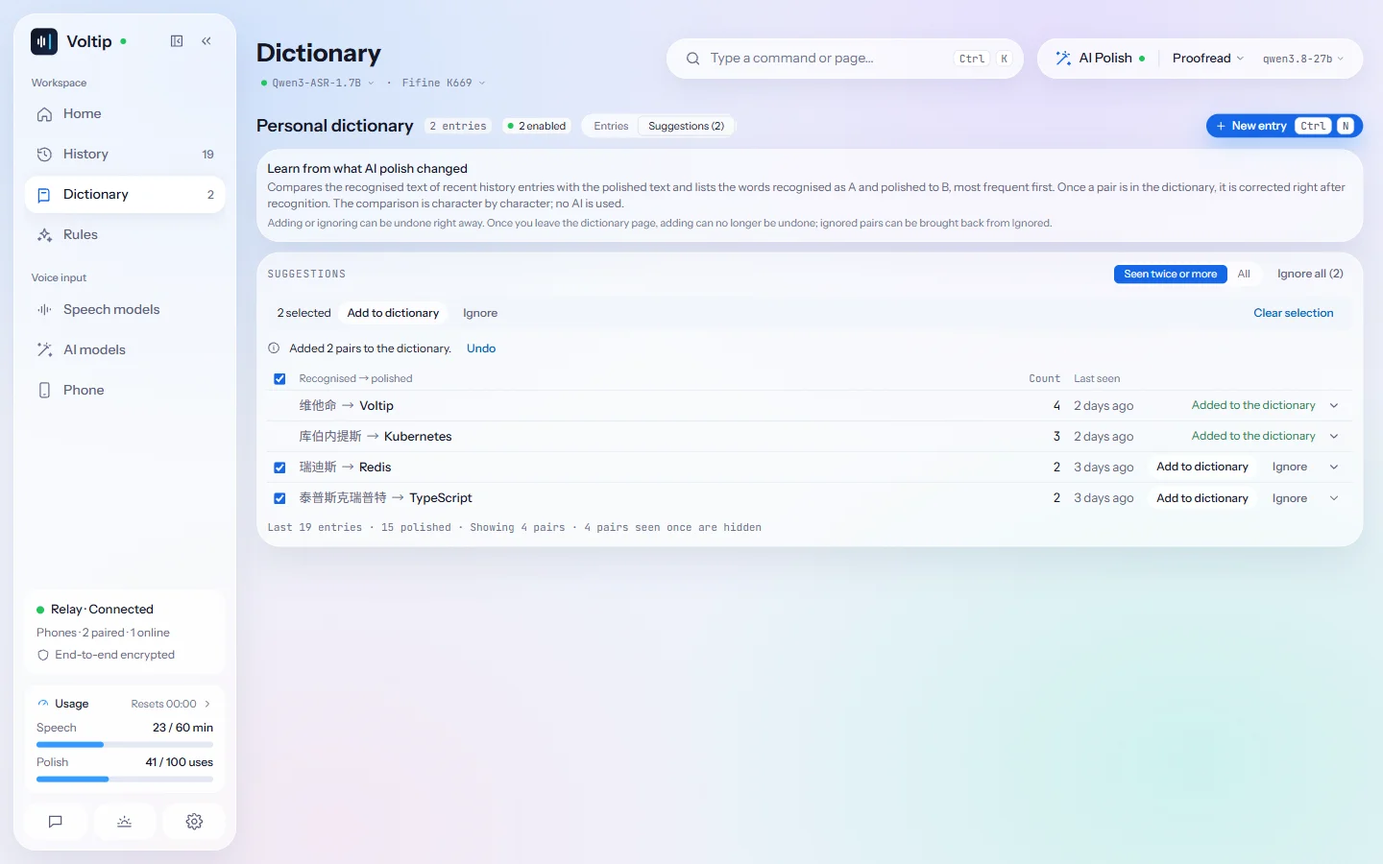
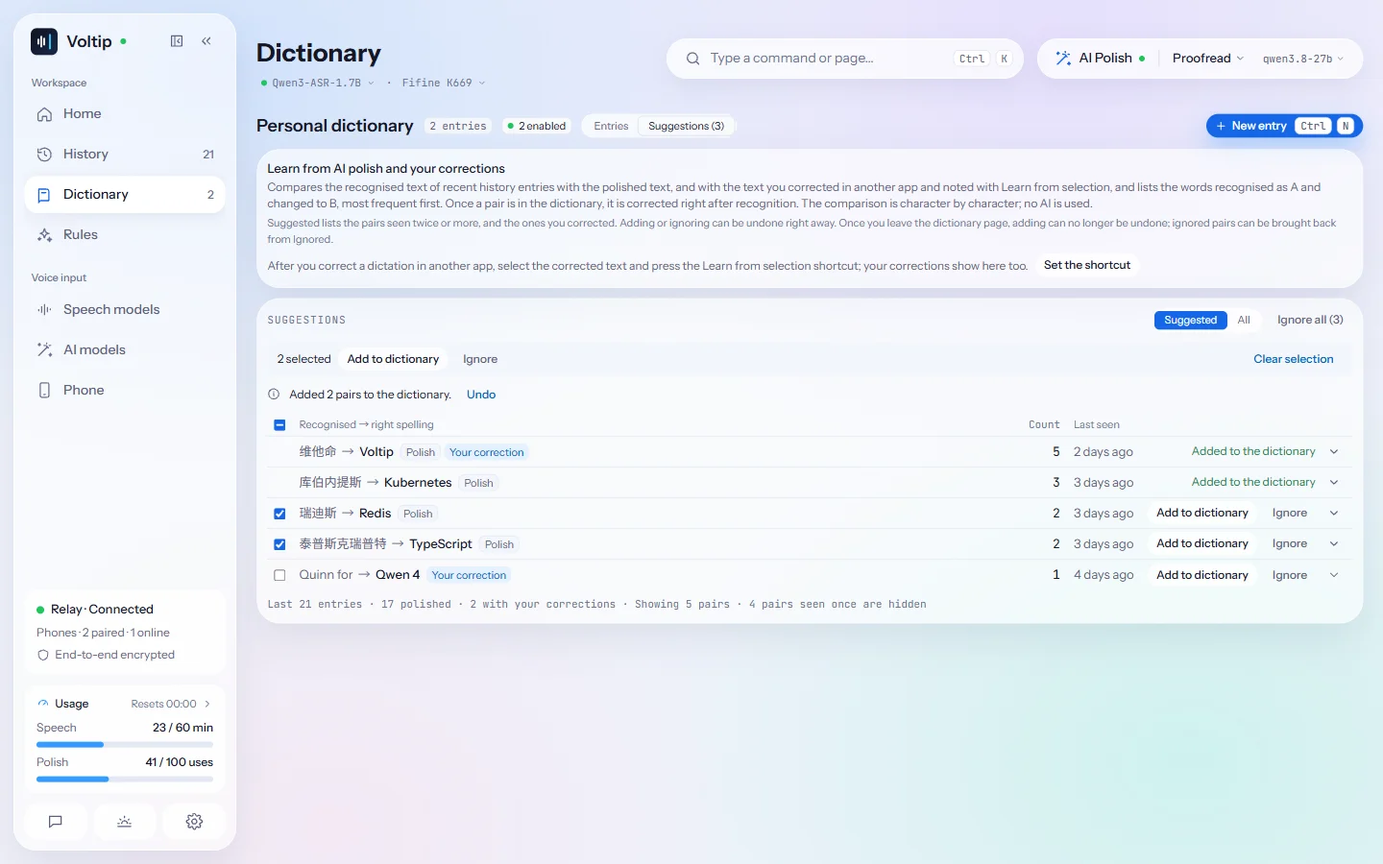
docs(voltip): sync from voltip@3421669
Source: https://github.com/sunerpy/voltip/commit/34216697370b7564388e05a56d63f541248f185d

diff --git a/voltip/src/zh/dev/threat-model.md b/voltip/src/zh/dev/threat-model.md
@@ -20,6 +20,7 @@
 | 本机语音服务被其他用户、网页或局域网滥用（`docs/dictation.md` §23） | 默认只监听回环地址，`voltip-server` 监听其他地址必须加 `--allow-remote`（并警告明文），App 只监听 127.0.0.1；除 `/healthz` 外每个请求都要 32 字节随机令牌（0600 文件，常量时间比较，可随时更换），没有关闭认证的选项；不返回 CORS 头，网页读不到响应；并发与排队有上限，时长、请求体和字段有界限，原始上传不落盘；日志不记文字、音频和令牌；无头服务端只读钥匙串与 App 的文件；没有钥匙串时可以从 `VOLTIP_KEY_*` 环境变量读取密钥（只在 voltip-server，文档建议 0600 的 EnvironmentFile；同一用户的进程能读到服务的环境变量，这一点写在文档里），`--check` 和日志只给变量名 | `the_token_guards_everything_but_the_health_check`、`malformed_and_oversized_requests_are_refused`、`a_waiting_request_reads_nothing_until_it_has_a_permit_and_a_full_queue_is_refused`（`voltip-serve`）；`the_command_line_names_the_service_and_its_one_shot_actions`、`print_token_creates_the_token_once_and_prints_it_again`（`voltip-server`）；`peek` 的零写入测试（`voltip-identity`）；`keys_from_the_environment_win_over_the_keychain_and_are_named_never_printed`（`voltip-server`） |
 | 代理看到或改动 Voltip 的流量（`docs/dictation.md` §24） | 代理只转发：`https://` 的请求（内置服务、服务商的默认地址、更新源、反馈服务）仍是端到端的 TLS（证书照常校验），中继里的内容还有 Noise E2EE，代理能看到的是要连接的主机和流量的大小与时间。用户自填的 `http://` 自定义端点（远程地址也允许）经过代理时是明文，代理能读到并改动录音、文字和密钥，与没有代理时网络路径上的风险相同；隐私页提醒改用 `https://` 或把它列入不使用代理的地址；本机地址（本地模型服务、本机语音服务）从不发给代理；手动代理的密码只在钥匙串，`settings.json`、界面、状态、日志里都没有；日志与错误不记代理的地址和用户名密码；`socks5h` 让代理解析域名，`socks5` 在本机解析 | `a_stream_tunnels_through_an_http_proxy_with_its_credentials`、`a_local_stream_goes_direct_and_a_refused_tunnel_names_no_host`、`a_client_follows_the_plan_from_one_request_to_the_next`（`voltip-net`）；`the_relay_connects_through_the_saved_proxy_with_the_keychain_password`（`voltip-core`）；`no proxy applies at once; a manual proxy is checked, saved tidy, its password kept out of view`（桌面） |
 | AI 工具接入（本机 MCP 服务，`docs/dictation.md` §25）被其他程序、网页或历史里的提示注入滥用 | 默认关闭，只监听 127.0.0.1，没有监听其他地址的选项；除 `/healthz` 外每个请求都要 32 字节随机令牌（0600 文件，与本机语音服务的令牌分开，常量时间比较，可随时更换，换后立即生效）；`Host` 只认 `127.0.0.1:{port}` / `localhost:{port}`（防 DNS rebinding），带 `Origin` 的请求一律拒绝，不返回 CORS 头，网页读不到响应；读取分三级（仅词典和规则 / 替换汇总（缺省）/ 完整历史），完整历史要用户在确认框里显式允许并限定时间范围，权限在每次调用时检查、收回立即生效；修改缺省只能写词典，外部工具新建的规则在用户启用前不执行（历史文本是不可信数据，可能带提示注入，规则会改写插入到任何应用里的文字），没有删除工具，每次写入都记在活动记录里并可撤销；最多 16 个会话、每会话每秒 10 次调用、单次结果 256 KiB；日志不记请求和结果里的文字；令牌与接入命令由核心放进剪贴板，不经过 webview | `crates/voltip-mcp/tests/http.rs@requests_without_the_token_or_from_a_web_page_are_refused`、`crates/voltip-mcp/tests/http.rs@the_levels_of_the_moment_decide_each_call`、`crates/voltip-mcp/tests/http.rs@a_clients_rule_waits_and_its_writes_can_be_undone`、`crates/voltip-mcp/tests/http.rs@sessions_and_calls_are_limited`、`crates/voltip-mcp/tests/http.rs@a_new_token_and_switching_off_take_effect_at_once`、`crates/voltip-mcp/tests/http.rs@the_logs_hold_no_text`；`crates/voltip-core/tests/mcp.rs@reads_follow_the_read_level_of_the_moment`、`crates/voltip-core/tests/mcp.rs@a_tools_rule_waits_for_approval_and_runs_once_approved` |
+| 从选中文字学习（`docs/dictation.md` §35）读到不该读的文字，或把它留在别处 | 只在用户按下快捷键（或运行 `--learn-selection`）时读一次：前台是终端时不按任何键；选区经剪贴板读取，做法与语音编辑相同（§19.2：先保存剪贴板全部内容，读完放回，期间用户另复制的内容不覆盖）；超过 8000 字不处理；只与最新 50 条听写比较，只存与某次听写对应的那一段改后的文字（历史记录关闭时什么也不存），存在本机历史里，删除记录、清空历史时一起删除，用户可以在历史详情里移除；不调用 AI、不发给任何服务；日志只记结果种类、条数和字数 | `crates/voltip-core/tests/learn.rs@the_notice_says_why_nothing_was_learned`（历史记录关闭、终端里都不按键）、`crates/voltip-core/tests/learn.rs@a_selection_corrects_the_take_and_the_notice_offers_its_pair`、`crates/voltip-inject/tests/real_display.rs@real_copy_chord_reads_the_selection_of_an_x11_text_widget`（剪贴板放回）、`crates/voltip-core/src/history/tests.rs@a_correction_is_stored_beside_the_entry_searched_and_read_with_the_recent_texts` |
 | 内置服务的每日额度被绕过，或用量把用户关联起来（`docs/dictation.md` §27） | 设备号是首次使用时生成的随机 UUID（`usage-id`），与配对密钥无关，不进备份、不同步，只发给内置服务；内置服务仍要应用令牌，按 IP 的限流照旧；额度是没有账号时的公平使用额度，不是安全边界（重装或伪造请求头能拿到新的额度，旧版本按 IP 计数）；额度用完只影响内置服务，其他服务商和本机模型照常可用；网关的统计只给每台设备 / 每个 IP 一个数，不含设备号和 IP；用量记录不含录音和文字 | `crates/voltip-cloud/src/lib.rs@only_the_built_in_service_is_told_who_asks`、`crates/voltip-core/src/usage/mod.rs@the_device_id_is_made_once_and_read_without_writing`、`apps/server/tests/cli.rs@the_server_meters_as_the_apps_device_or_as_itself_and_never_writes_the_apps_directory` |
 | 中继的统计泄露谁在和谁连接（`docs/pairing.md`「中继统计」） | `GET /stats` 只在中继的回环监听地址上，反向代理只转发 `/ws`；只有按小时的计数，不含 IP、频道、会话号和验证码；版本只按已发布版本的名单分桶，其余记为 `other`，每小时的桶数有上限 | `crates/voltip-relay/src/core.rs@the_statistics_count_what_happened_and_name_no_device`、`crates/voltip-relay/src/stats.rs@regression_versions_are_named_only_from_the_policy_or_up_to_the_hours_slots` |
 | 管理台被冒用：调高最低版本把所有客户端挡在外面，或改动额度（`docs/runbook.md`「管理台与同步」） | 管理台（私有仓库 `sunerpy/voltip-admin`）只在 Cloudflare Access 之后；Functions 用团队域的公钥验证每个请求的 `Cf-Access-Jwt-Assertion`（签名、`aud`、`exp`），失败一律 403；同步接口只认 Access 的 service token；最低版本只能选已发布的版本，并发修改按 revision 回 409，每次修改记审计（邮箱、前后内容、时间），可以恢复上一个设置；中继和网关主机上的本地覆盖文件优先于同步来的配置，坏的配置不会替换上一份有效配置 | 私有仓库的 `site/` 测试（Access JWT 用测试密钥对、409、已发布版本校验、同步令牌）；`crates/voltip-relay/src/policy.rs@the_override_wins_while_valid_and_a_broken_main_file_keeps_the_last_valid_policy` |
@@ -38,3 +39,4 @@
 - 本机语音服务的令牌对同一用户的所有进程可读（这就是给其他程序用的）：能读到这个文件的程序就能使用服务，包括它背后的内置服务额度。`--allow-remote` 时令牌以明文 HTTP 传输，应改用 SSH 隧道或 TLS 反向代理。
 - 内置服务的每日计数放在网关的 njs 共享内存里，网关容器重启后当天的计数清零，这一天可以多用一些（`docs/dictation.md` §27.9）。
 - AI 工具接入的令牌同样对同一用户的所有进程可读，复制时会经过剪贴板（其他程序可能读剪贴板）；持有令牌的程序能在授权范围内读写。AI 工具读到的内容会发给它所用的模型服务，这一点由完整历史的确认框说明，Voltip 无法约束。
+- 从选中文字学习读选区时，选中的文字会在剪贴板上停留很短的时间（与语音编辑相同），这期间读剪贴板的程序（剪贴板管理器、远程桌面）能看到它。改后的文字随历史记录同步到配对的手机（端到端加密），手机不显示它。

diff --git a/voltip/src/recognition/dictionary.md b/voltip/src/recognition/dictionary.md
@@ -107,13 +107,18 @@ To let AI tools such as Claude Code or Codex analyse the history with your proje
 
 ## Suggestions
 
-**Suggestions**, at the top of the Dictionary page, lists the spellings AI polish corrected in your recent history: what was recognised, what it was polished to, how many times and when last, the most frequent first. Spellings the dictionary already corrects and pairs you ignored are left out. Voltip compares the recognised text with the polished text character by character; no AI is used and nothing is sent anywhere.
+**Suggestions**, at the top of the Dictionary page, lists the spellings that were corrected in your recent history: what was recognised, the right spelling, how many times and when last, the most frequent first. The corrections come from two sources, and each row names its source:
+
+- **Polish**: spellings AI polish corrected.
+- **Your correction**: spellings you corrected in another app and gave to Voltip with [Learn from selection](#learn-from-selection). Errors that neither recognition nor polish got right can be learned this way.
+
+Spellings the dictionary already corrects and pairs you ignored are left out. Voltip compares the recognised text, the polished text and your corrected text character by character; no AI is used and nothing is sent anywhere.
 
 <ScreenFigure src="/screens/dictionary-suggestions-en-light.webp" width="1440" height="900"
-  alt="Suggestions on the Dictionary page, showing the four pairs seen twice or more. The first two were added to the dictionary together: the line above the list says “Added 2 pairs to the dictionary.” and has Undo. The other two are checked, the bar above the list adds or ignores them at once, and Ignore all (2) is next to the view switch. The line under the list says 4 pairs are shown and 4 pairs seen once are hidden."
-  caption="Check several rows to add them to the dictionary or ignore them at once; Undo takes back the whole batch." />
+  alt="Suggestions on the Dictionary page, showing the five Suggested pairs, each marked with its source, Polish or Your correction: 维他命 → Voltip has both, and Quinn for → Qwen 4 was seen once, from your correction. The first two were added to the dictionary together: the line above the list says “Added 2 pairs to the dictionary.” and has Undo. The pairs for 瑞迪斯 and 泰普斯克瑞普特 are checked, and the bar above the list adds or ignores them at once. Under the explanation, a line offers to set the Learn from selection shortcut. The line under the list says 2 entries have your corrections, 5 pairs are shown and 4 pairs seen once are hidden."
+  caption="Each pair names its source; check several rows to add them to the dictionary or ignore them at once, and Undo takes back the whole batch." />
 
-- By default the list shows the pairs seen twice or more; choose **All** above the list to include the ones seen once. The number after **Suggestions** counts the pairs left to decide in the current view, and the line under the list says how many pairs are shown and how many seen once are hidden.
+- By default the list shows the **Suggested** pairs: those seen twice or more, and those you corrected (even once). Choose **All** above the list to include the other pairs seen once. The number after **Suggestions** counts the pairs left to decide in the current view, and the line under the list says how many pairs are shown, how many entries carry your corrections, and how many pairs seen once are hidden.
 - **Add to dictionary** adds the recognised spelling as a heard-as form: to the entry that already has the right spelling, or to a new entry. When a replacement rule would change the right spelling, or the spelling belongs to another entry, Voltip says why and saves nothing.
 - **Ignore** keeps the pair off the list and moves it to **Ignored** below.
 - Check several rows, or **Select all** in the header, to add them all to the dictionary or ignore them at once. Pairs with the same right spelling go into one entry; when a pair cannot be added, the reason is under its row and the others are added.
@@ -122,7 +127,24 @@ To let AI tools such as Claude Code or Codex analyse the history with your proje
 - Expand a row to see the recognised text it appeared in, and how many of your recent entries adding it would change. Voltip warns when the spelling is a single character, which can change other words by mistake.
 - **Ignored (n)** lists the pairs you ignored, the most recent first, with when you ignored each. **Stop ignoring** puts a pair back among the suggestions. The list stays after you leave the page or restart Voltip.
 
-Suggestions come from the history: while history is off, the view only says that history needs to be on, and dictations without AI polish and imported audio or video files are not compared. Chinese is compared character by character: when 非书 was polished to 飞书, the pair listed is 非 → 飞. Suggestions are available on the computer only.
+Suggestions come from the history: while history is off, the view only says that history needs to be on; imported audio or video files are not compared, and a dictation with neither AI polish nor a correction of yours has nothing to compare. Chinese is compared character by character; when only one character changed, the pair listed takes the character next to it as well: when 非书 was corrected to 飞书, the pair listed is 非书 → 飞书. Suggestions are available on the computer only.
+
+## Learn from selection
+
+After you correct a dictation in another app, you can give Voltip the corrected text: it notes the change and adds it to the suggestions.
+
+1. Under **Settings → Shortcuts**, set a shortcut for **Learn from selection**. It is not set by default, and it must differ from the shortcuts for dictation, voice editing and copying the last result.
+2. When the inserted text has an error, correct it where it is, for example “I'm testing Quinn for max” to “I'm testing Qwen 4 max”.
+3. Select the corrected text and press the shortcut. Selecting a little more or less is fine, and so is a selection over several dictations in a row.
+4. The overlay shows “Noted 1 change: Quinn for → Qwen 4”. **Add to dictionary** adds it at once, and you can undo it; **View** opens the suggestions. You can also leave it: the change stays among the suggestions, marked **Your correction**.
+
+- Voltip reads the selection by copying it, and puts the clipboard back afterwards. In a terminal it reads nothing and presses no key.
+- Voltip looks for the dictation the selection corrects among your last 50 dictations. When none matches, the selection is the same as what was dictated, or nothing is selected, the overlay says so.
+- The corrected text is kept with that history entry: its details gain a **Later corrected to** line, and **Remove** deletes it. Learn from selection needs the history to be on.
+- When a change has a spelling of one character or one or two letters, the overlay offers **View** only: check what it would change on the dictionary page before adding it.
+- The overlay stays for 8 seconds, counted again after each button, and goes when the next dictation starts. While a dictation's result card is on screen, it appears after the card is closed.
+- In a pure Wayland session, bind a shortcut to the command `voltip-desktop --learn-selection` in the system settings.
+- Learn from selection is available on the computer only.
 
 ## Simplified and Traditional Chinese
 

diff --git a/voltip/src/zh/recognition/dictionary.md b/voltip/src/zh/recognition/dictionary.md
@@ -107,13 +107,18 @@ case_sensitive = false
 
 ## 学习建议
 
-「词典」页顶部的「学习建议」列出 AI 润色在最近的历史记录中改正过的写法：识别成什么、润色后是什么、出现了几次、最近一次是什么时候，次数多的在前。词典已经纠正的写法和你忽略过的写法不会列出。Voltip 只逐字比较识别原文和润色后的文字，不调用 AI，也不发送任何内容。
+「词典」页顶部的「学习建议」列出最近的历史记录中被改正过的写法：识别成什么、正确写法是什么、出现了几次、最近一次是什么时候，次数多的在前。改正有两个来源，每一行都标明来源：
+
+- **润色**：AI 润色改正过的写法。
+- **你的修改**：你在其他应用里改正、再用[从选中文字学习](#从选中文字学习)交给 Voltip 的写法。识别和润色都没有改对的错误，可以这样学到。
+
+词典已经纠正的写法和你忽略过的写法不会列出。Voltip 只逐字比较识别原文、润色后的文字和你改正后的文字，不调用 AI，也不发送任何内容。
 
 <ScreenFigure src="/screens/dictionary-suggestions-zh-light.webp" width="1440" height="900"
-  alt="「词典」页的「学习建议」：列表显示出现 2 次及以上的四组写法。前两组已一次加入词典，列表上方写明「已将 2 组加入词典。」并带「撤销」；后两组已勾选，上方的选择栏可以一次加入词典或忽略，显示范围旁边是「全部忽略（2）」。列表下方写明显示 4 组、隐藏 4 组只出现 1 次的建议。"
-  caption="勾选几行，一次加入词典或忽略；点「撤销」撤回整批。" />
+  alt="「词典」页的「学习建议」：「推荐」范围显示五组写法，每组写法后标出来源「润色」或「你的修改」，「维他命 → Voltip」两个来源都有，「Quinn for → Qwen 4」只出现 1 次、来自你的修改。前两组已一次加入词典，列表上方写明「已将 2 组加入词典。」并带「撤销」；「瑞迪斯」和「泰普斯克瑞普特」两组已勾选，上方的选择栏可以一次加入词典或忽略。说明卡下方提示可以设置「从选中文字学习」的快捷键。列表下方写明 2 条记录有你的修改、显示 5 组、隐藏 4 组只出现 1 次的建议。"
+  caption="每组写法标出来源；勾选几行，一次加入词典或忽略，点「撤销」撤回整批。" />
 
-- 列表默认只列出出现 2 次及以上的写法；在列表上方选择「全部」，只出现过 1 次的写法也会列出。「学习建议」后面的数字是当前范围内尚未处理的组数，列表下方写明显示了多少组、隐藏了多少组只出现 1 次的写法。
+- 列表默认显示「推荐」的写法：出现 2 次及以上的，以及你改正过的（只出现 1 次也显示）。在列表上方选择「全部」，其余只出现过 1 次的写法也会列出。「学习建议」后面的数字是当前范围内尚未处理的组数，列表下方写明显示了多少组、有几条记录带有你的修改、隐藏了多少组只出现 1 次的写法。
 - 「加入词典」把识别成的写法加入词典：正确写法已经是某个词条时，加到这个词条的曾听成写法中；否则新建一个词条。如果某条替换规则会改掉这个正确写法，或者这个写法已属于其他词条，Voltip 会说明原因，不会保存。
 - 「忽略」让这组写法不再出现在列表中，它会列在下方的「已忽略」里。
 - 勾选几行，或勾选表头的「全选」，可以一次把它们全部加入词典或忽略。正确写法相同的几组会加入同一个词条；某一组无法加入时，原因写在这一行下面，其余各组照常加入。
@@ -122,7 +127,24 @@ case_sensitive = false
 - 展开一行，可以看到这组写法出现在哪些识别原文中，以及加入后会改动最近多少条记录。写法只有 1 个字时，Voltip 会提醒它容易误改其他词语。
 - 「已忽略（n）」列出你忽略过的写法，最近忽略的在前，并写出忽略的时间。点「取消忽略」，这组写法会重新出现在学习建议中。离开词典页或重启 Voltip 后，这个列表还在。
 
-学习建议来自历史记录：历史记录关闭时，这里只提示需要开启历史记录；没有经过 AI 润色的听写和导入的音视频文件不参与比较。中文按字比较，例如「非书」被润色成「飞书」时，列出的是「非 → 飞」。学习建议只在电脑上提供。
+学习建议来自历史记录：历史记录关闭时，这里只提示需要开启历史记录；导入的音视频文件不参与比较，没有经过 AI 润色、也没有你的修改的听写没有可以比较的内容。中文按字比较；只改了 1 个字时，列出的写法会带上相邻的一个字，例如「非书」被改成「飞书」时，列出的是「非书 → 飞书」。学习建议只在电脑上提供。
+
+## 从选中文字学习
+
+在其他应用里改正了听写结果之后，可以把改好的文字交给 Voltip，它会记下改动，放进学习建议。
+
+1. 在「设置 → 快捷键」中为「从选中文字学习」设置一个快捷键。这个快捷键默认未设置，不能与听写、语音编辑、复制上一条结果的快捷键相同。
+2. 听写插入的文字有误时，在原来的位置把它改正，例如把「我在用 Quinn for max 做测试」改成「我在用 Qwen 4 max 做测试」。
+3. 选中改好的文字，按下这个快捷键。多选或少选一些都可以，也可以一次选中连续几次听写的文字。
+4. 悬浮窗显示「已记下 1 处改动：Quinn for → Qwen 4」。点「加入词典」直接加入词典，之后可以撤销；点「查看」打开学习建议。不做处理也可以，这组改动会留在学习建议中，标为「你的修改」。
+
+- Voltip 用复制的方式读取选中的文字，读取后剪贴板恢复原来的内容。终端里不读取，也不按任何键。
+- Voltip 在最近 50 次听写中查找与选中文字对应的记录。找不到、选中的文字与听写结果相同、没有选中文字时，悬浮窗会说明原因。
+- 改正后的文字保存在这条历史记录中，记录详情会多出一行「之后改成」，点「移除」可以删除它。历史记录关闭时无法使用这项功能。
+- 改动里有只有 1 个字或 1–2 个字母的写法时，悬浮窗只提供「查看」，请在词典页确认影响范围后再加入。
+- 悬浮窗停留 8 秒，点按钮后重新计时，下一次听写开始时消失。听写结果的卡片还在屏幕上时，它会在卡片关闭之后出现。
+- 在纯 Wayland 会话中，请在系统设置里为命令 `voltip-desktop --learn-selection` 绑定快捷键。
+- 这项功能只在电脑上提供。
 
 ## 简体与繁体
 

diff --git a/voltip/src/privacy.md b/voltip/src/privacy.md
@@ -64,6 +64,10 @@ With **Keep recordings on this computer** on (the default), the recordings of di
 
 To check that a paste arrived, Voltip reads the input field that has the focus on this computer right before and right after the paste, and compares its length, the caret and the selection, the selected text and up to 64 characters before the caret. To get them it may read more: on Windows, and in fields that only give their whole content, Voltip reads all of the field's text (up to about a million characters; longer text is not read) and works these out from it. What it reads stays in memory for the moment of the paste and is then discarded; it is never saved, uploaded or written to the log, which records only the outcome, how long the check took and the app's identifier. Password fields, terminals and remote desktops are not read, nor is a field when Voltip cannot tell which app the text went to. Switch the check off with **Check that the text was written** under **Settings → Dictation**; see [Checking that the text arrived](/dictation/output#checking-that-the-text-arrived).
 
+## Learn from selection
+
+Only when you press the **Learn from selection** shortcut (or run `voltip-desktop --learn-selection`) does Voltip read the text selected in the app in front, once: it presses the copy keys, reads the selection from the clipboard and puts the clipboard back as it was; while it reads, other programs that read the clipboard (a clipboard manager, for example) may see the text. In a terminal nothing is read and no key is pressed; a selection of more than 8000 characters is not used. The selection is compared on this computer with your last 50 dictations only, sent to no service and never to AI; the log records only the outcome, how many entries and how many characters. When it corrects a dictation, the corrected text of that dictation is kept in its history entry: it is backed up and synced to paired phones with the history, deleted with the entry or when the history is cleared, and can be removed on its own in the entry's details. With the history off, nothing is read or kept. See [Learn from selection](/recognition/dictionary#learn-from-selection).
+
 ## The local service
 
 When the [local service](/recognition/service) is on, programs on this computer that have its access token can send recordings to Voltip. Each recording is processed like a dictation with the same settings: it goes to the recognition service in use, and its text to the AI service when AI polish applies. While a request is processed, its audio is kept in a temporary file in Voltip's data folder, which is deleted when the request ends. Requests are not added to the history, and the service's log records durations and the models used, never the text or the audio.
@@ -74,7 +78,7 @@ With [AI tools](/recognition/mcp) turned on, AI tools on this computer that hold
 
 ## What stays on your computer
 
-- **History**: every dictation, stored in Voltip's data folder. It can be limited, turned off or cleared under **Settings → Privacy and history**.
+- **History**: every dictation, and the text you corrected with **Learn from selection**, stored in Voltip's data folder. It can be limited, turned off or cleared under **Settings → Privacy and history**.
 - **Recordings**: with **Keep recordings on this computer** on, the recordings of your latest dictations, in the same folder; see [The microphone and computer audio](#the-microphone-and-computer-audio).
 - **Dictionary, rules, scenes and settings**: in the same folder.
 - **Backup files**: a backup exported under **Settings → Privacy and history** is saved where you choose. It holds the history, the dictionary, the rules, the scenes and your own AI presets, but no settings or keys, and it is not encrypted; see [Backup and moving to another computer](/dictation/history#backup-and-moving-to-another-computer). The automatic backups, made every week, before an update and before an import replaces data, hold the same and are saved in the `backups` folder of Voltip's data folder or in the folder you choose, each computer keeping its own latest 5; in a synced folder they are uploaded with it, and Voltip does not sync data between computers, see [Automatic backups](/dictation/history#automatic-backups).

diff --git a/voltip/src/dictation/shortcuts.md b/voltip/src/dictation/shortcuts.md
@@ -1,5 +1,5 @@
 ---
-description: The dictation shortcut, the three recording modes, starting with a single key or a mouse button, the overlay, cancelling with Esc, the shortcut that copies the last result, and what and how long a dictation records.
+description: The dictation shortcut, the three recording modes, starting with a single key or a mouse button, the overlay, cancelling with Esc, the shortcuts that copy the last result and learn from a selection, and what and how long a dictation records.
 ---
 
 # Shortcuts and recording modes
@@ -77,7 +77,11 @@ On a pure Wayland session, bind a system shortcut to `voltip-desktop --cancel` i
 
 ## Copy the last result
 
-Under **Settings → Shortcuts**, **Copy last result** takes a shortcut of its own, none by default. Pressing it puts the latest result on the clipboard without opening Voltip, and the overlay says **Copied the last result**. It must differ from the dictation and voice edit shortcuts. The tray menu on Windows and macOS has the same command, see [Copy or paste a result again](/dictation/output#copy-or-paste-a-result-again).
+Under **Settings → Shortcuts**, **Copy last result** takes a shortcut of its own, none by default. Pressing it puts the latest result on the clipboard without opening Voltip, and the overlay says **Copied the last result**. It must differ from the dictation, voice edit and Learn from selection shortcuts. The tray menu on Windows and macOS has the same command, see [Copy or paste a result again](/dictation/output#copy-or-paste-a-result-again).
+
+## Learn from selection
+
+Under **Settings → Shortcuts**, **Learn from selection** takes a shortcut of its own, none by default. After you correct a dictation in another app, select the corrected text and press it: Voltip notes the change for the dictionary's suggestions, and the overlay shows the change it noted. It must differ from the dictation, voice edit and Copy last result shortcuts. See [Learn from selection](/recognition/dictionary#learn-from-selection) for how to use it.
 
 ## Recording source
 
@@ -115,5 +119,6 @@ A pure Wayland session does not let apps register global shortcuts or watch sing
 | `voltip-desktop --edit-toggle` | Starts or finishes a [voice edit](/dictation/voice-edit) |
 | `voltip-desktop --cancel` | Cancels the current dictation |
 | `voltip-desktop --copy-last` | Puts the latest result on the clipboard |
+| `voltip-desktop --learn-selection` | [Learns from the selected text](/recognition/dictionary#learn-from-selection) |
 
 When Voltip runs as an AppImage, use the AppImage's path instead of `voltip-desktop`; Settings → Shortcuts shows the exact command. In a session that runs X11 apps through XWayland, the shortcut works only while an X11 window has the focus, so a system shortcut is the reliable choice there as well.
